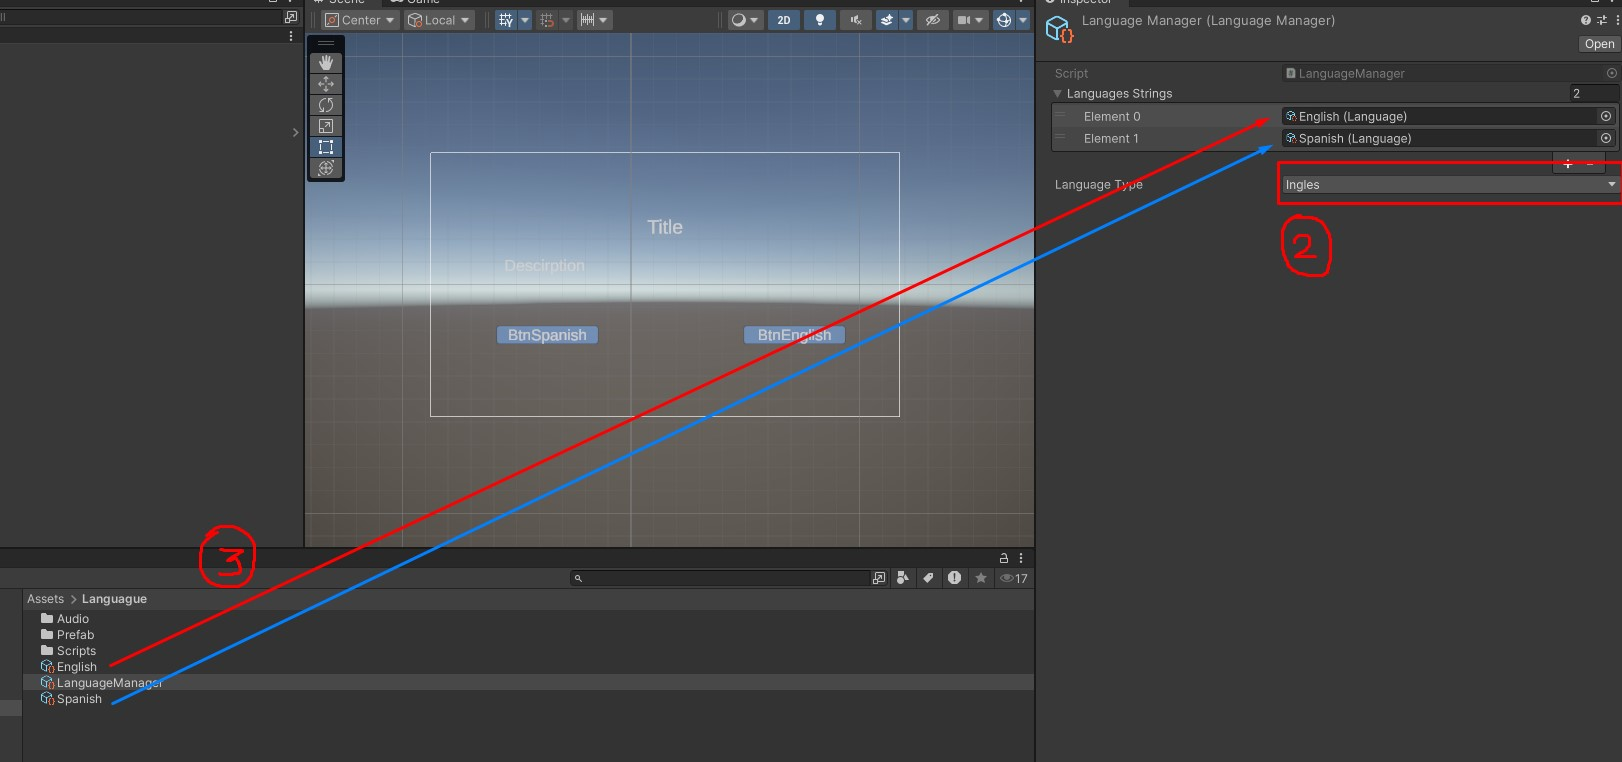
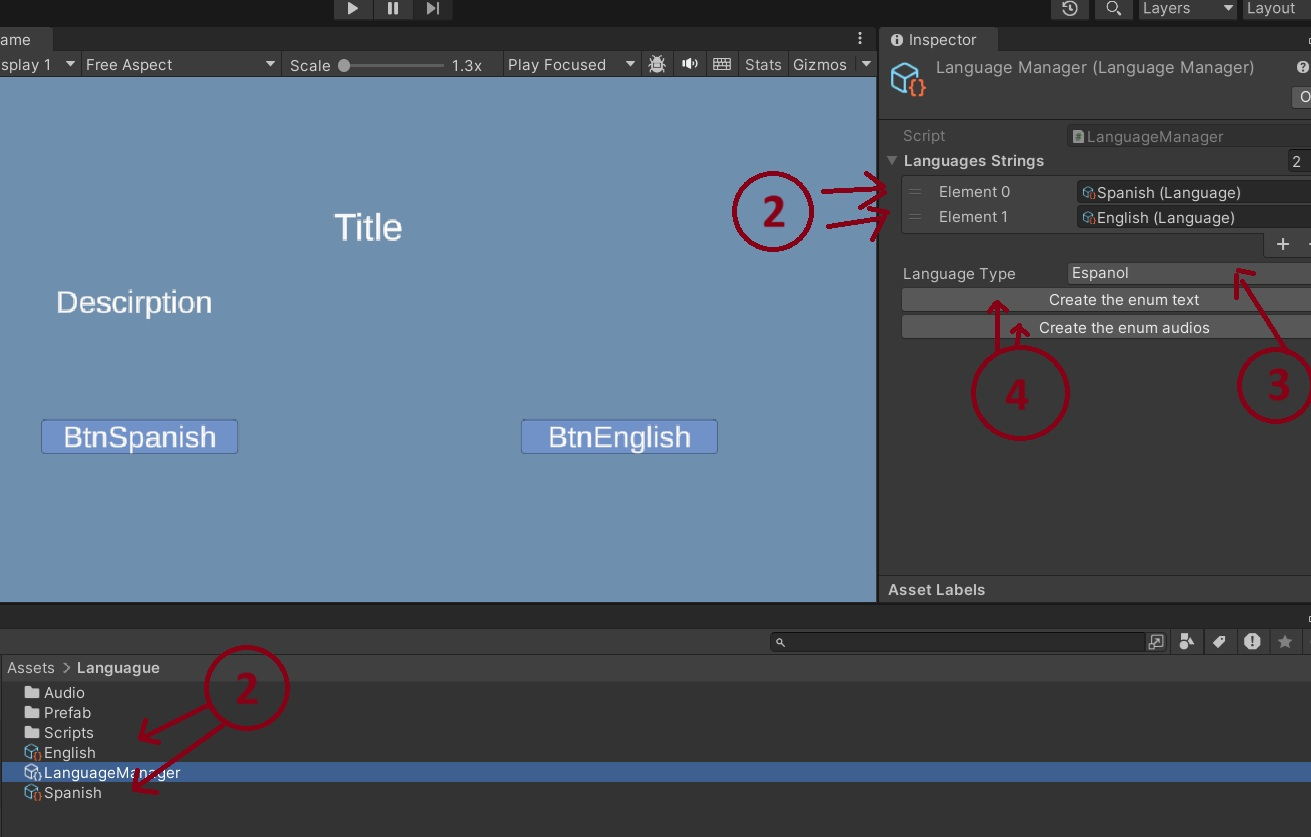
[U] Update Languague Manager

diff --git a/Assets/Languague/Scripts/Editor/SetTextEditor.cs b/Assets/Languague/Scripts/Editor/SetTextEditor.cs
@@ -37,7 +37,9 @@ public class SetTextEditor : Editor
 
         // **Paso 1: Dibujar las variables que quieres ver en el inspector**
         // Si no son nulas, dibújalas con EditorGUILayout.PropertyField()
-        if (languageManagerProp != null)
+        //   if (languageManagerProp != null)
+
+
         {
             EditorGUILayout.PropertyField(languageManagerProp);
         }
@@ -53,37 +55,40 @@ public class SetTextEditor : Editor
         string savedEnumName = targetScript.SelectedTextEnumName;
         int savedEnumValue = targetScript.SelectedTextEnumValue;
 
-        string ItemName = targetScript.languageManager.name.Replace(" ", "_");
-        ItemName = ItemName.Replace("-", "");
-        ItemName = ItemName.ToUpper();
-        ItemName = EnumCreator.EliminarCaracteresDuplicadosConsecutivos(ItemName, '_');
 
-        Debug.Log("LANGUAGUE_TEXT_" + ItemName);
+        if (targetScript.languageManager != null) { 
+            string ItemName = targetScript.languageManager.name.Replace(" ", "_");
+            ItemName = ItemName.Replace("-", "");
+            ItemName = ItemName.ToUpper();
+            ItemName = EnumCreator.EliminarCaracteresDuplicadosConsecutivos(ItemName, '_');
 
-        Type selectedEnumType = typeof(SetText).Assembly.GetType("LANGUAGUE_TEXT_"+ ItemName);
+            
 
-        Debug.Log("Name:" +selectedEnumType.Name);
+            Type selectedEnumType = typeof(SetText).Assembly.GetType("LANGUAGUE_TEXT_"+ ItemName);
 
-        if (selectedEnumType != null)
-        {
-            string[] audioValues = Enum.GetNames(selectedEnumType);
-            if (savedEnumValue >= audioValues.Length)
+   
+
+            if (selectedEnumType != null)
             {
-                savedEnumValue = 0;
-            }
-            int newEnumValueIndex = EditorGUILayout.Popup("Text Value", savedEnumValue, audioValues);
+                string[] audioValues = Enum.GetNames(selectedEnumType);
+                if (savedEnumValue >= audioValues.Length)
+                {
+                    savedEnumValue = 0;
+                }
+                int newEnumValueIndex = EditorGUILayout.Popup("Text Value", savedEnumValue, audioValues);
 
-            if (newEnumValueIndex != savedEnumValue)
-            {
-                targetScript.SelectedTextEnumValue = newEnumValueIndex;
-                EditorUtility.SetDirty(targetScript);
+                if (newEnumValueIndex != savedEnumValue)
+                {
+                    targetScript.SelectedTextEnumValue = newEnumValueIndex;
+                    EditorUtility.SetDirty(targetScript);
+                }
             }
-        }
-        else
-        {
-            EditorGUILayout.HelpBox("No se encontraron enums en la carpeta de Audios.", MessageType.Warning);
-        }
+            else
+            {
+                EditorGUILayout.HelpBox("No se encontraron enums en la carpeta de Audios.", MessageType.Warning);
+            }
         
+        }
         serializedObject.ApplyModifiedProperties();
     }
 }

diff --git a/Assets/Languague/Scripts/PlayAudio.cs b/Assets/Languague/Scripts/PlayAudio.cs
@@ -1,3 +1,4 @@
+using System;
 using System.Collections;
 using System.Collections.Generic;
 using UnityEngine;
@@ -30,5 +31,18 @@ public class PlayAudio : MonoBehaviour
             audioSource.Play();
         }
         
+    }
+
+    public void Play(Enum value)
+    {
+        int index = Convert.ToInt32(value);
+        if (audioSource.isPlaying)
+            audioSource.Pause();
+        AudioClip clip = languageManager.GetAudio(index);
+        if (clip != null)
+        {
+            audioSource.clip = clip;
+            audioSource.Play();
+        }
     }
 }

diff --git a/README.md b/README.md
@@ -43,6 +43,9 @@ Clona o descarga este repositorio en la carpeta `Assets` de tu proyecto Unity.
 1.  Selecciona tu ScriptableObject `LanguageManager` en la ventana del Proyecto.
 2.  Arrastra y suelta tus ScriptableObjects `Language` en el array "Languages".
 3.  Establece el `Default Language` al idioma que quieras cargar inicialmente.
+4.  Botones `Create the enum text` y `Create the enum audio` 
+crea enums para tener mejor acceso de los textos y audios,
+toma como referencia el idioma que esta en la pocicion 0 del Languague Manager
 
      ![Config LanguagueManager](Assets/img/Tutorial1_3.jpg)
 
@@ -50,7 +53,8 @@ Clona o descarga este repositorio en la carpeta `Assets` de tu proyecto Unity.
 
 1.  Selecciona un ScriptableObject `Language` (por ejemplo, "Spanish").
 2.  En el Inspector, expande los arrays "Words" y "Audios".
-3.  **Fundamentalmente, asegúrate de que el índice para un texto/audio específico coincida en todos los idiomas.**
+3.  (Opcional) Puedes importar archivos csv.
+4.  **Fundamentalmente, asegúrate de que el índice para un texto/audio específico coincida en todos los idiomas.**
     * Ej: `Text Translations[0]` = "Hola Mundo" (Español)
     * `Text Translations[0]` = "Hello World" (Inglés)
     * `Audio Translations[0]` = `audio_hola_espanol.mp3`
@@ -62,9 +66,8 @@ Clona o descarga este repositorio en la carpeta `Assets` de tu proyecto Unity.
 
 * **Para Texto:**
     1.  Añade un componente `SetText` a tu GameObject `TextMeshProUGUI` o `UI.Text`.
-    2.  Asigna el índice de texto deseado de tus ScriptableObjects `Language`.
-    3.  Asigna el  `LanguageManager` que quieres usar.
-    4.  Asigna la referencia de tu `TextMeshProUGUI` o `UI.Text`.
+    2.  Asigna el  `LanguageManager` que quieres usar.
+    3.  Elige el texto que quieres mostrar.
 
     ![Config LanguagueText](Assets/img/Tutorial1_5.jpg)
 
